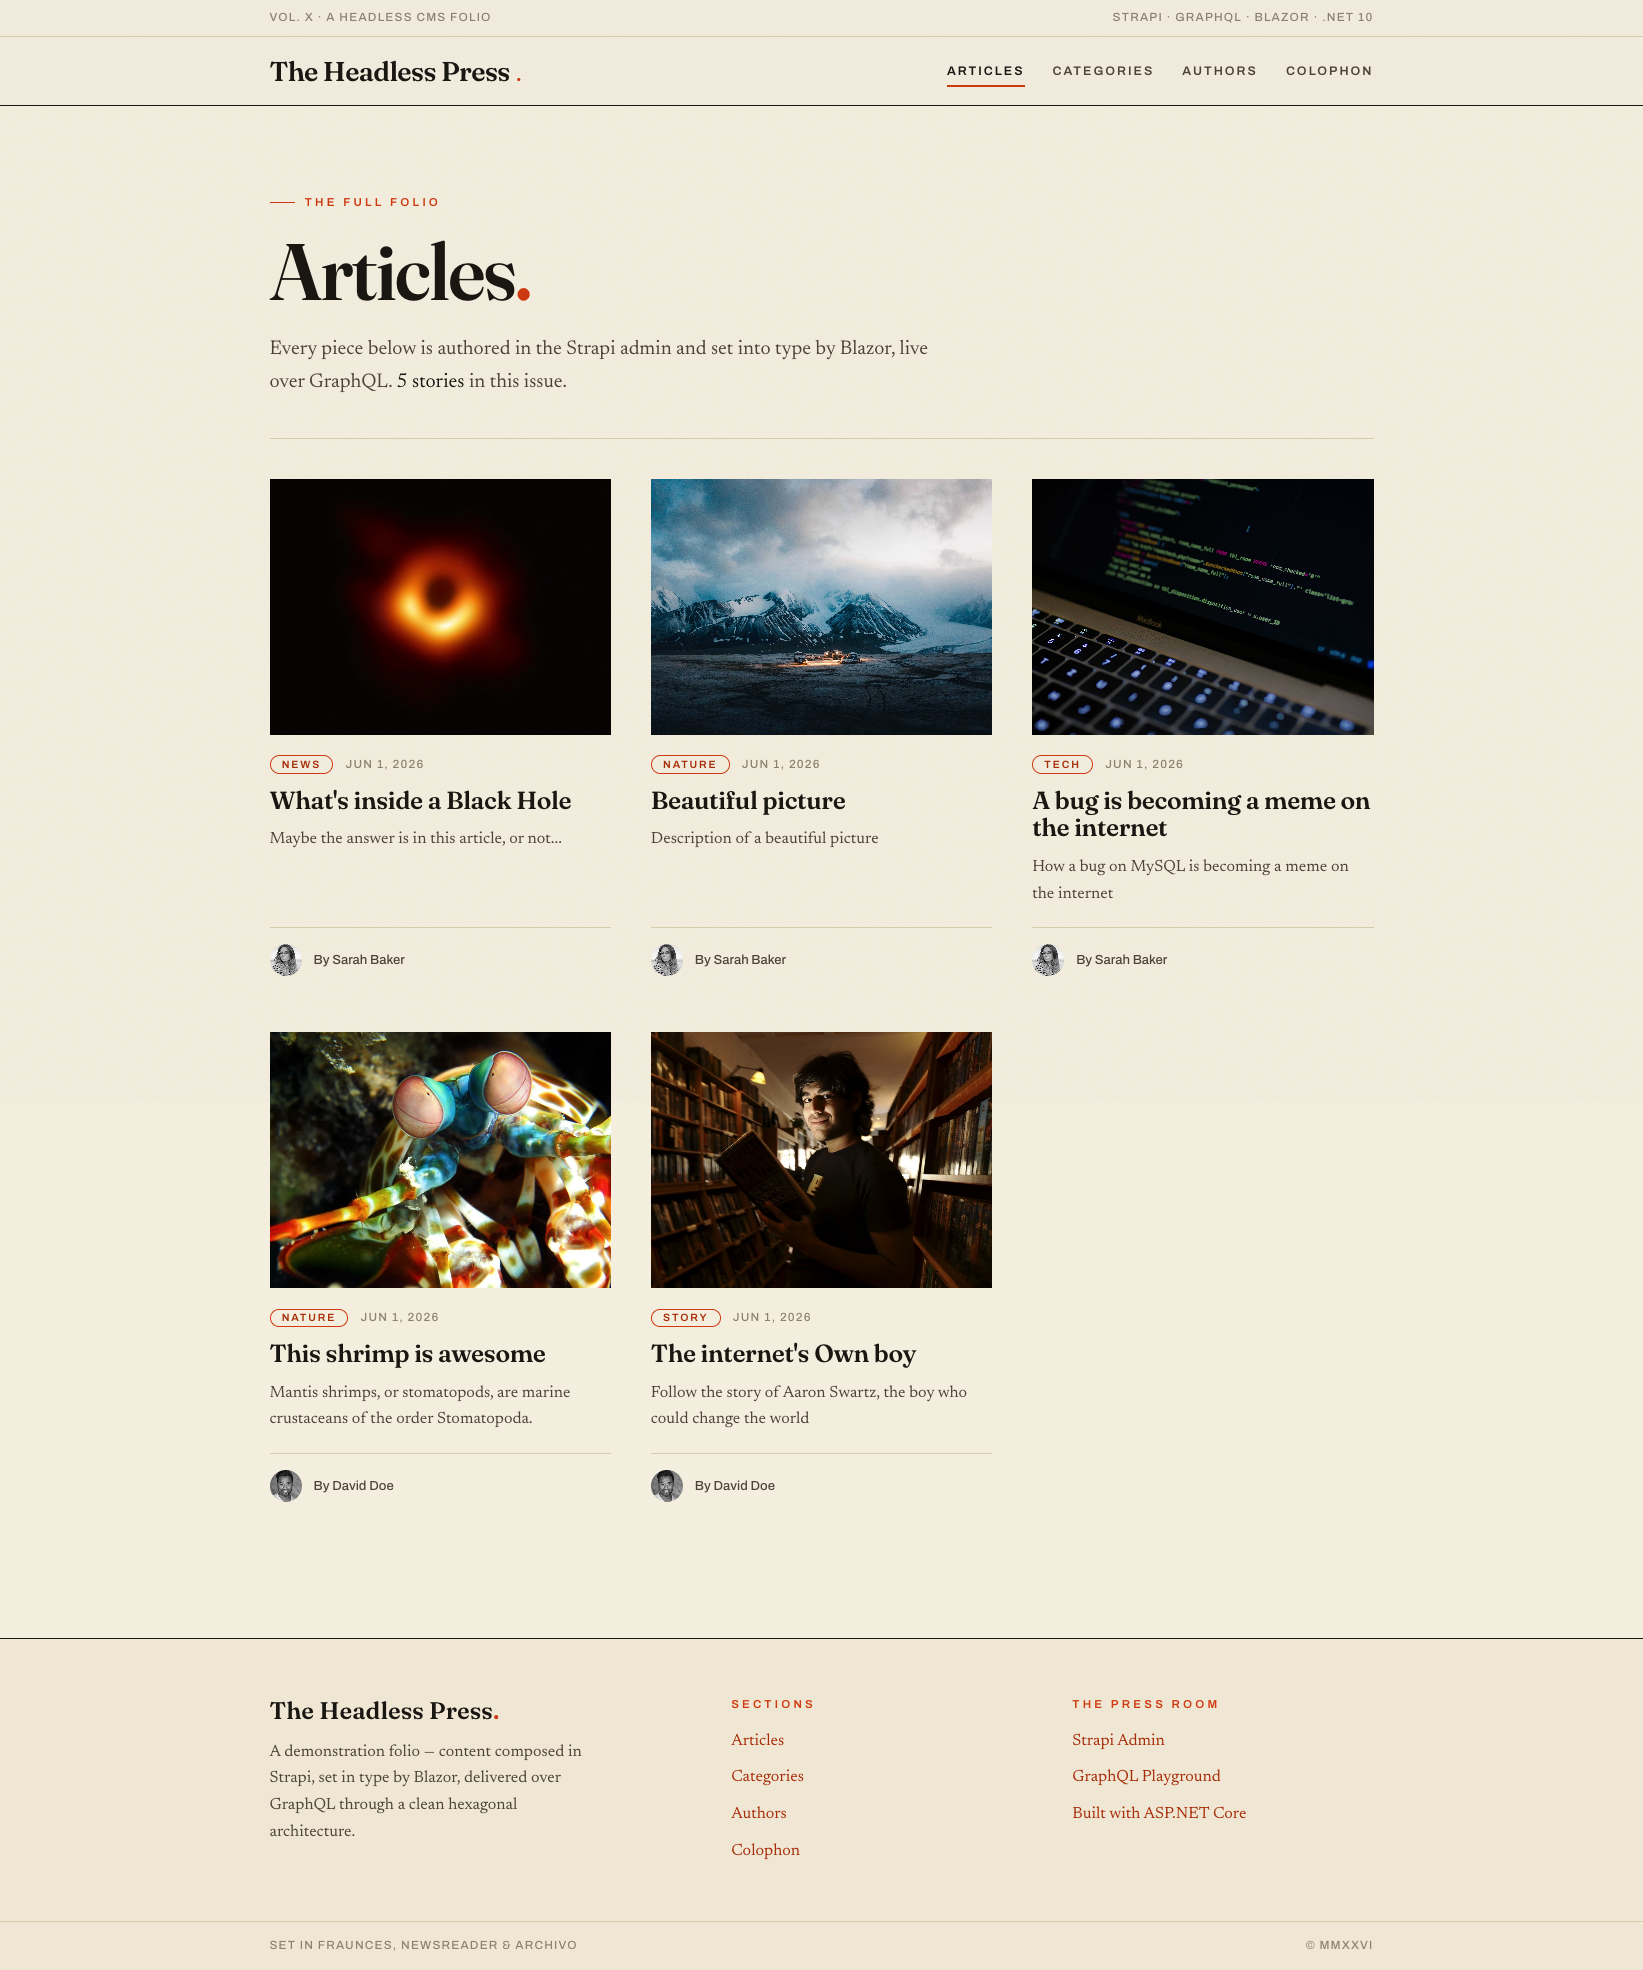
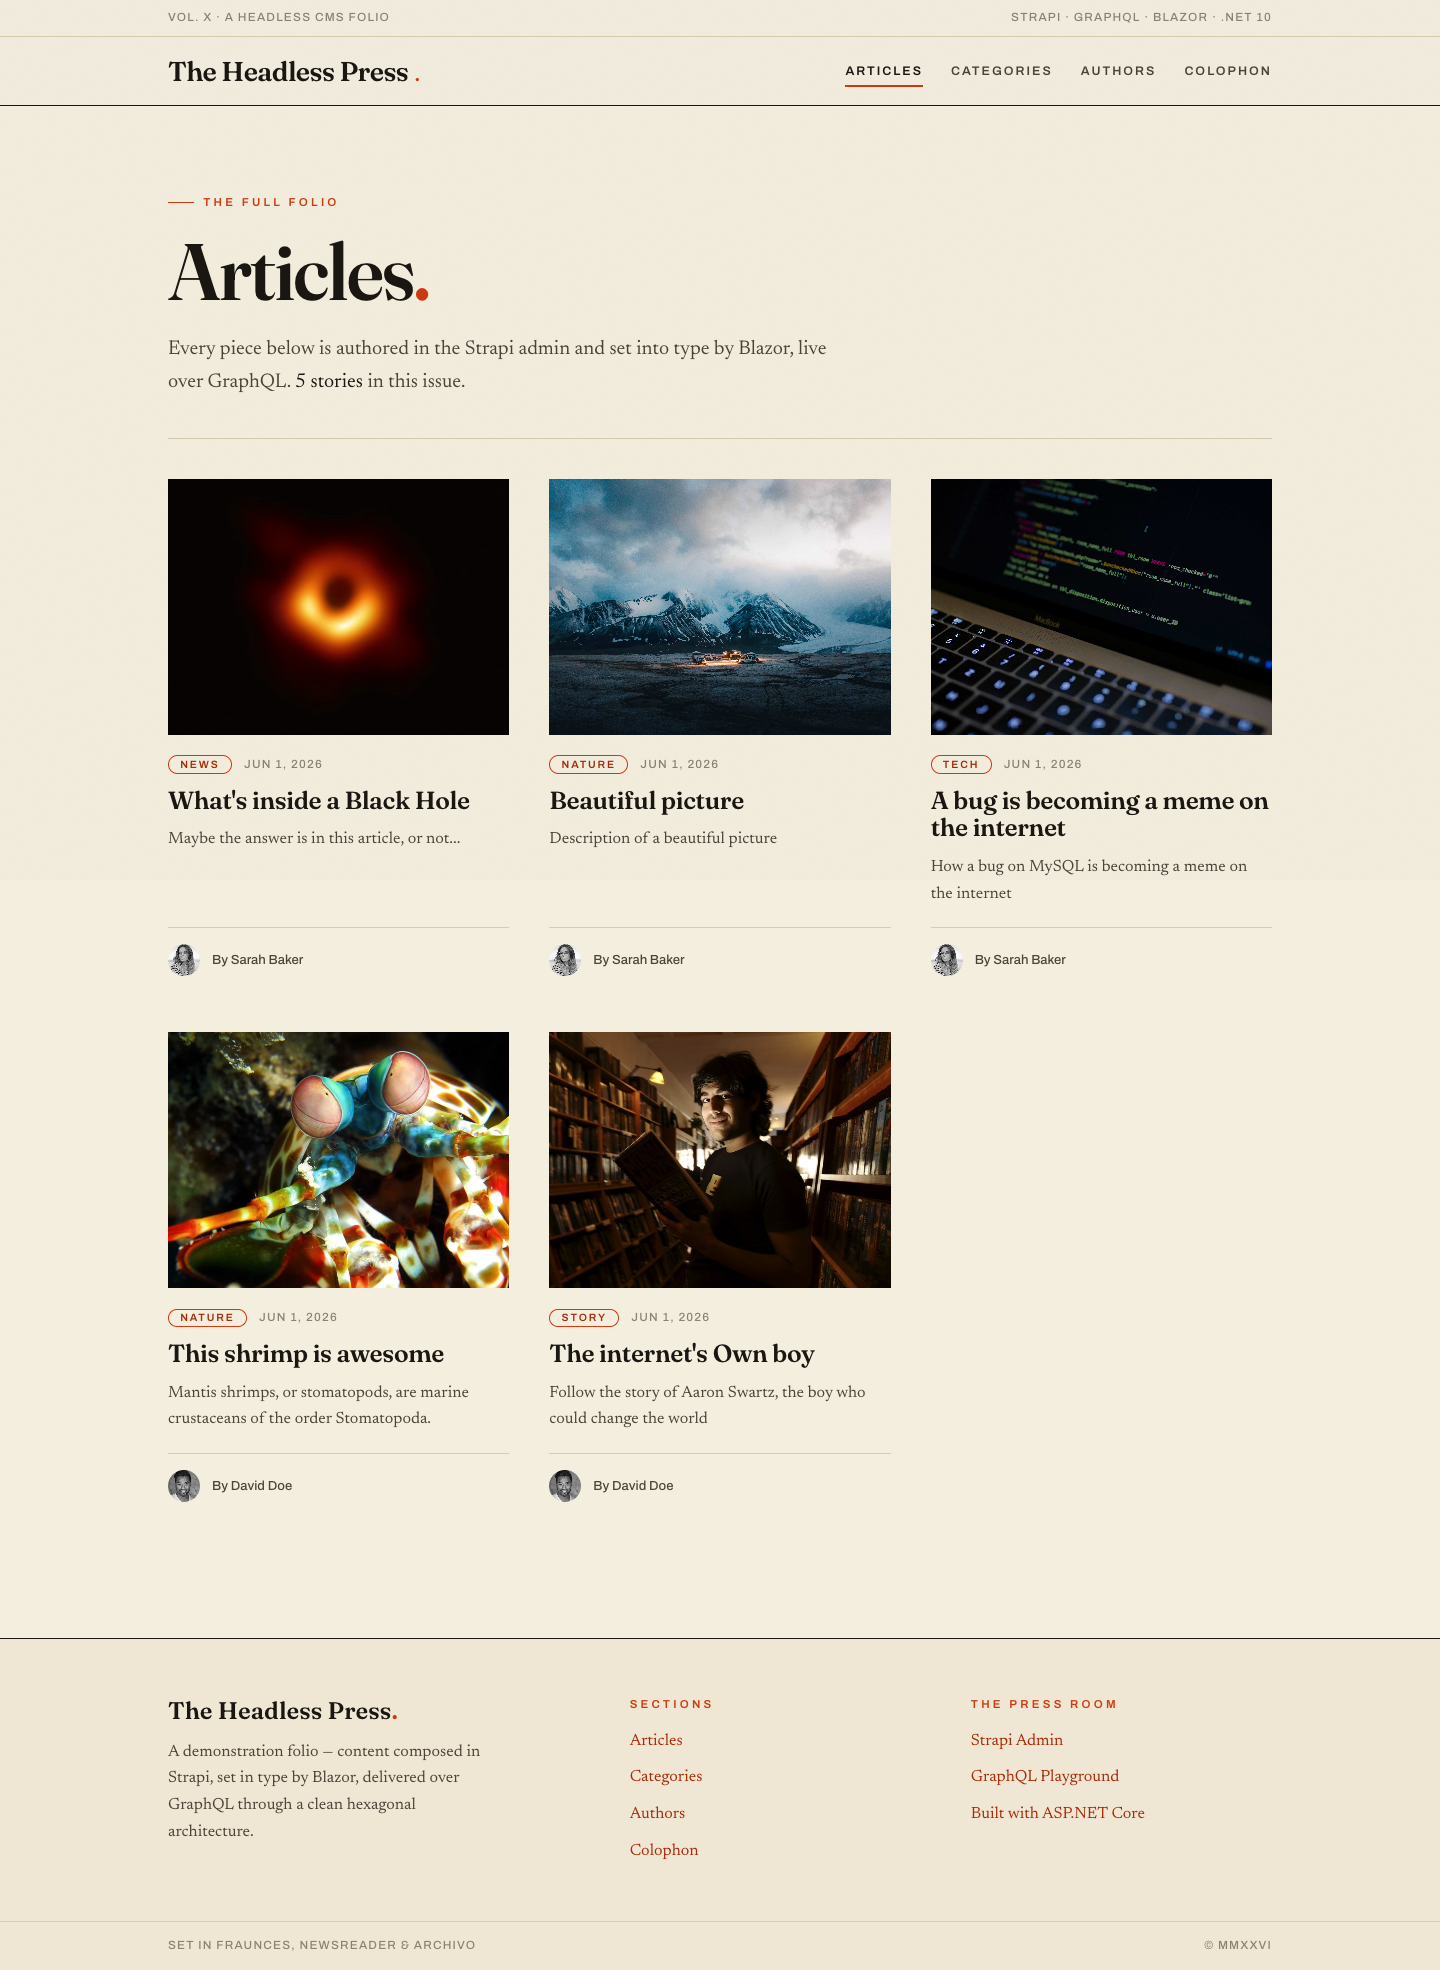
fix(deploy): persist Strapi uploads on a volume so media survives restarts (#59)
Strapi's local upload provider writes media to public/uploads on the container
filesystem; recreating the Strapi container (e.g. on redeploy) wiped those files
while the DB kept pointing at them, so every /uploads/* 404'd and images vanished
from the site. Mount a named volume (aspirestrapi-uploads) at
/opt/app/public/uploads in the AppHost (WithVolume) and the published compose.

Verified: after a fresh seed, covers/avatars serve 200 and render on :8090 with a
clean console; media now survives container recreation.

Pull request: fix(deploy): persist Strapi uploads on a volume
Images disappeared from the live site because Strapi's local upload files live on the container filesystem and were lost when the container was recreated (DB still pointed at them → /uploads/* 404). Adds a persistent `aspirestrapi-uploads` volume (AppHost `WithVolume` + published compose). Verified covers/avatars render on :8090 with a clean console and survive recreation.

🤖 Generated with [Claude Code](https://claude.com/claude-code)

diff --git a/dotnet/AspireStrapi.AppHost/Program.cs b/dotnet/AspireStrapi.AppHost/Program.cs
@@ -65,6 +65,11 @@ var strapi = builder
     .WithEnvironment("TRANSFER_TOKEN_SALT", transferTokenSalt)
     .WithEnvironment("JWT_SECRET", jwtSecret)
     .WithEnvironment("ENCRYPTION_KEY", encryptionKey)
+    // Persist uploaded media. Strapi's local provider writes files to
+    // public/uploads on the container filesystem; without a volume they are
+    // lost whenever the container is recreated (leaving the DB pointing at
+    // 404ing /uploads/* URLs).
+    .WithVolume("aspirestrapi-uploads", "/opt/app/public/uploads")
     .PublishAsDockerComposeService((resource, service) =>
     {
         service.Restart = "unless-stopped";